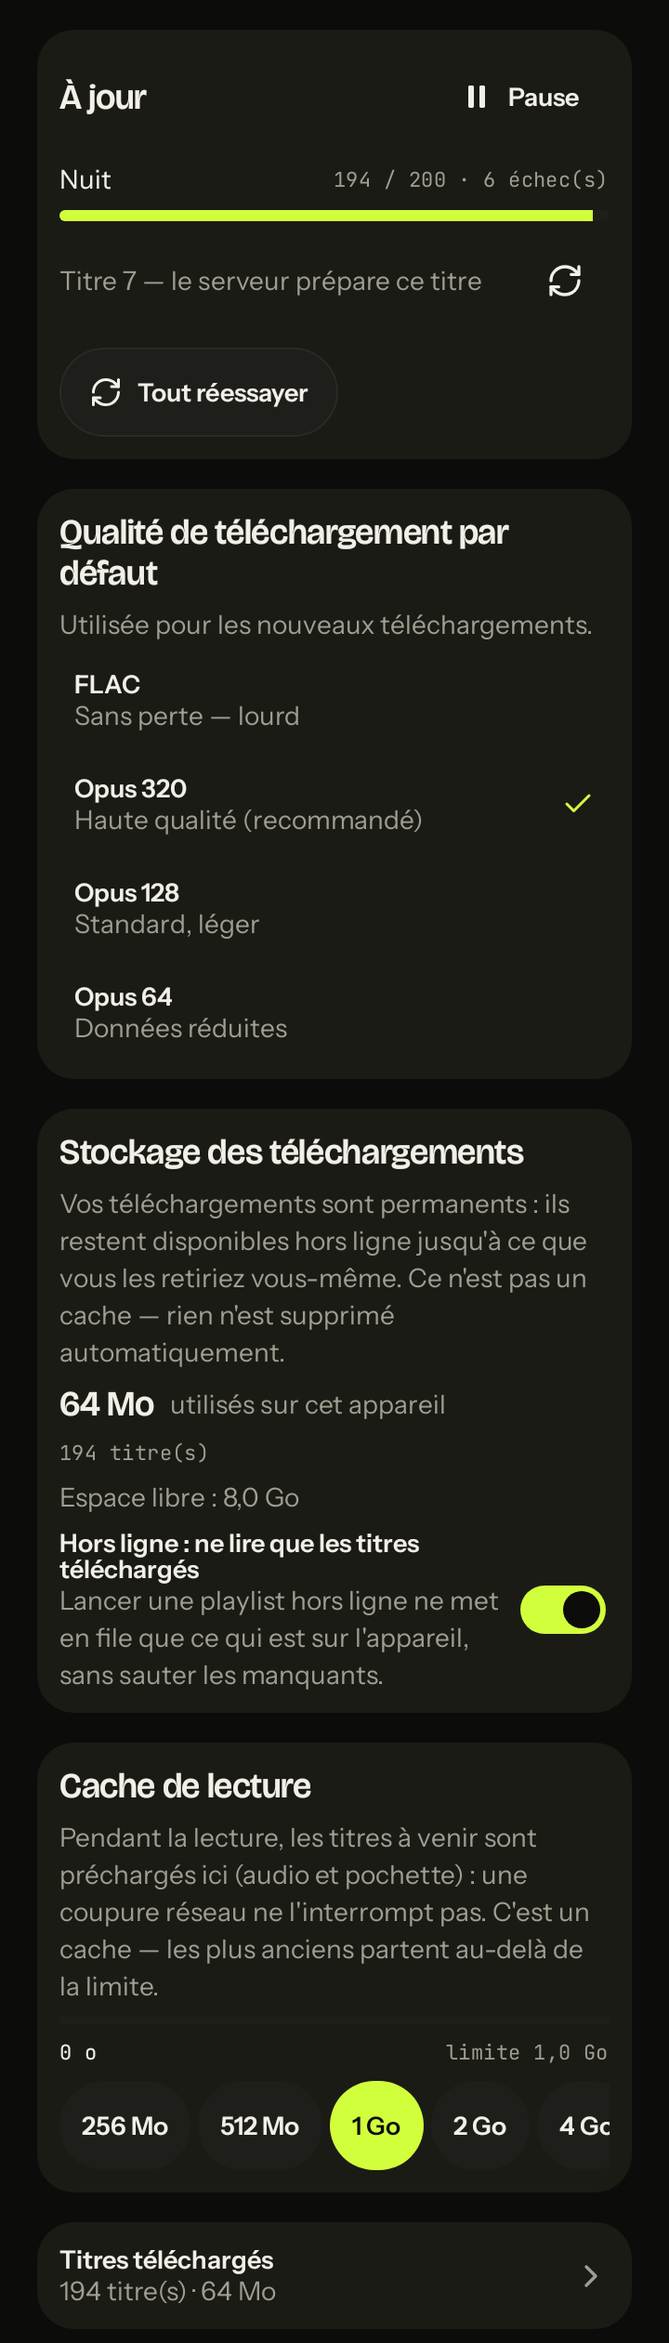
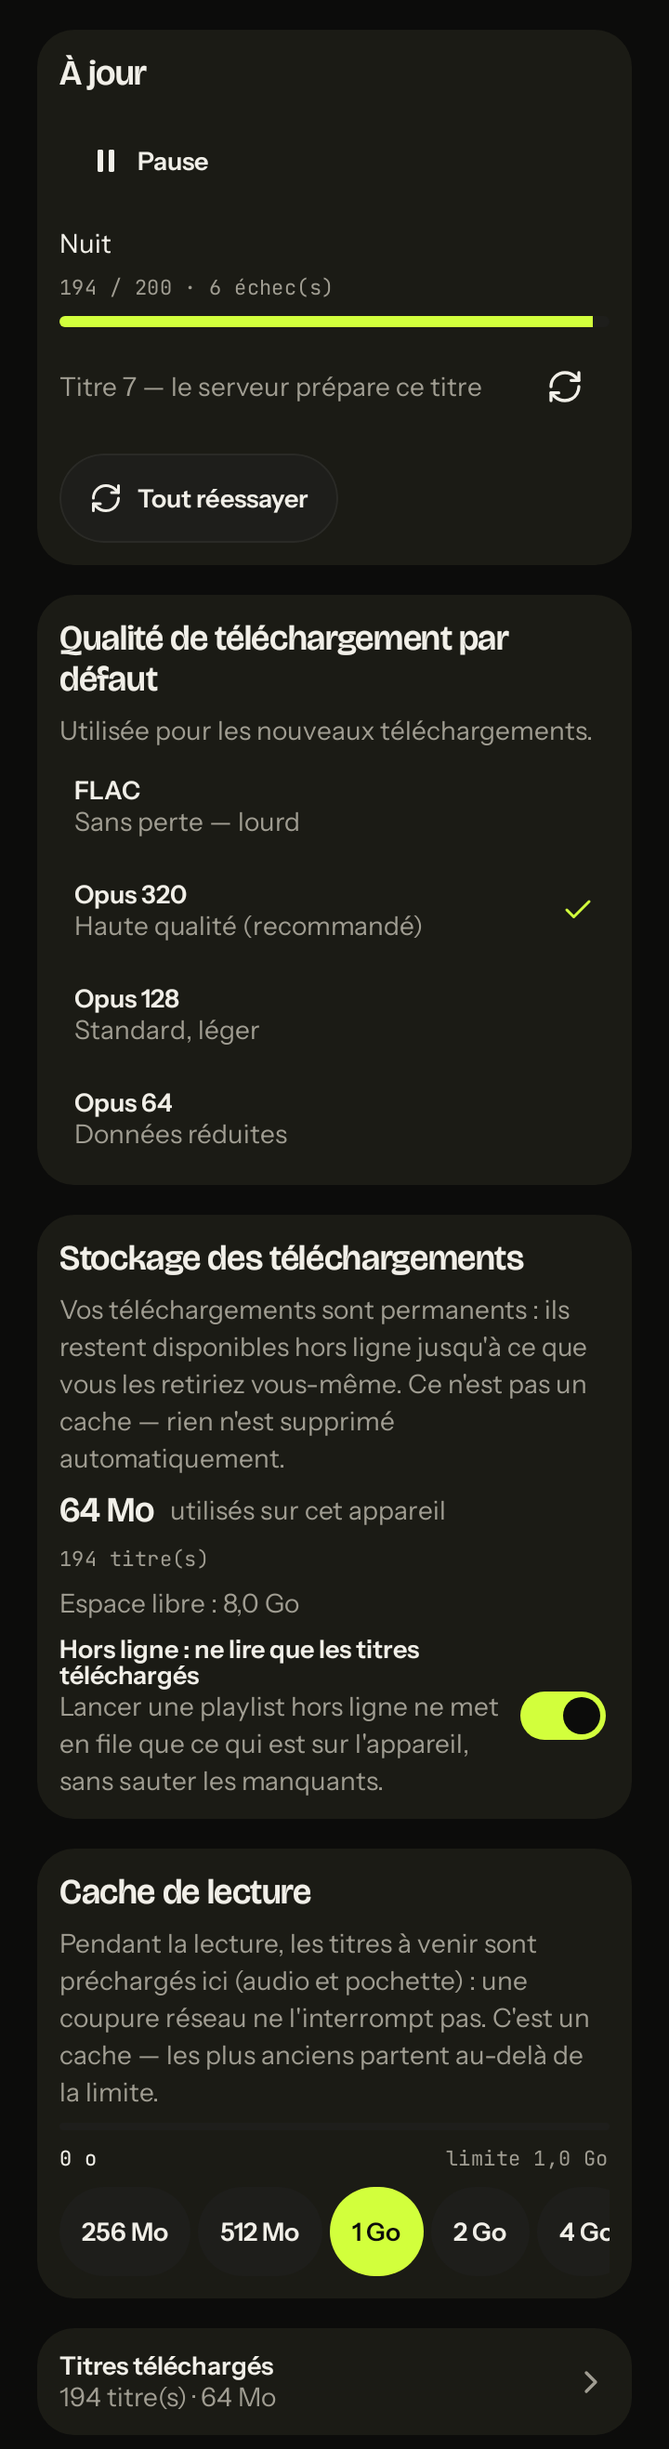
docs(mobile): MB15 delivered — measures, rules a screenshot taught, owed items

diff --git a/mobile/android/feature/offline/src/androidTest/java/fr/neezer/mobile/feature/offline/OfflineCaptureTest.kt b/mobile/android/feature/offline/src/androidTest/java/fr/neezer/mobile/feature/offline/OfflineCaptureTest.kt
@@ -1,7 +1,6 @@
 package fr.neezer.mobile.feature.offline
 
 import android.graphics.Bitmap
-import android.graphics.Canvas
 import androidx.activity.ComponentActivity
 import androidx.compose.foundation.background
 import androidx.compose.foundation.layout.Arrangement
@@ -15,8 +14,12 @@ import androidx.compose.foundation.verticalScroll
 import androidx.compose.runtime.Composable
 import androidx.compose.runtime.CompositionLocalProvider
 import androidx.compose.ui.Modifier
+import androidx.compose.ui.draw.clipToBounds
+import androidx.compose.ui.graphics.asAndroidBitmap
+import androidx.compose.ui.graphics.toArgb
 import androidx.compose.ui.platform.LocalDensity
 import androidx.compose.ui.platform.testTag
+import androidx.compose.ui.test.captureToImage
 import androidx.compose.ui.test.junit4.createAndroidComposeRule
 import androidx.compose.ui.test.onNodeWithTag
 import androidx.compose.ui.unit.Density
@@ -89,11 +92,21 @@ class OfflineCaptureTest {
         content: @Composable () -> Unit,
     ) {
         val model = install()
+        // The window's own background is the theme's ground: the test activity's
+        // default light grey showed through under the compiled section and read
+        // as a band across the capture (measured: the region below the content
+        // was `#EDEDED` under a white title).
+        val windowGround = Sillon.theme(theme).bg.toArgb()
+        rule.activity.runOnUiThread {
+            rule.activity.window.setBackgroundDrawable(
+                android.graphics.drawable.ColorDrawable(windowGround),
+            )
+        }
         rule.setContent {
             val density = LocalDensity.current
             CompositionLocalProvider(LocalDensity provides Density(density.density, fontScale)) {
                 NzTheme(kind = theme, motion = NzMotionLevel.Full) {
-                    Box(Modifier.fillMaxSize().background(Sillon.colors.bg).testTag("capture")) {
+                    Box(Modifier.fillMaxSize().background(Sillon.colors.bg).clipToBounds().testTag("capture")) {
                         Column(
                             modifier = Modifier
                                 .fillMaxWidth()
@@ -111,10 +124,29 @@ class OfflineCaptureTest {
         // The model must have been read by now: a screen painted from nothing
         // would be a screenshot of an empty page.
         check(model.state.value.version > 0uL) { "the section painted nothing" }
-        val view = rule.activity.window.decorView
-        val bitmap = Bitmap.createBitmap(view.width, view.height, Bitmap.Config.ARGB_8888)
-        val canvas = Canvas(bitmap)
-        rule.runOnUiThread { view.draw(canvas) }
+        // The COMPOSED node, not the window: `captureToImage` reads the node's
+        // own bounds and clips to them, so the activity's window background can
+        // never appear as a grey band under the section (measured: the decor
+        // view's background showed through where the content ended).
+        val full = rule.onNodeWithTag("capture").captureToImage().asAndroidBitmap()
+        // The decor is the activity's window: below the section's ground the
+        // window's own background shows as a band. Crop it away — the image is
+        // the SCREEN, not the window handle (a row is kept while anything in it
+        // differs from the band's own colour).
+        val ground = Sillon.theme(theme).bg.toArgb()
+        var bottom = full.height - 1
+        while (bottom > 0) {
+            var empty = true
+            for (x in 0 until full.width step 4) {
+                if (full.getPixel(x, bottom) != ground) {
+                    empty = false
+                    break
+                }
+            }
+            if (!empty) break
+            bottom -= 1
+        }
+        val bitmap = Bitmap.createBitmap(full, 0, 0, full.width, (bottom + 1).coerceAtLeast(1))
         val dir = File(
             InstrumentationRegistry.getInstrumentation().targetContext.filesDir,
             "mb15-screenshots",
@@ -142,9 +174,12 @@ class OfflineCaptureTest {
     fun the_download_button_states_render_on_the_device() {
         capture("boutons.png", NzThemeKind.Encre) {
             Column(verticalArrangement = Arrangement.spacedBy(NzSpacing.m)) {
+                // Absent, running, done and failed: the fake carries the three
+                // contexts below, and `playlist:1` is a context nobody queued.
                 DownloadButton(context = "playlist:1")
                 DownloadButton(context = "playlist:42")
                 DownloadButton(context = "album:404")
+                DownloadButton(context = "show:9")
             }
         }
         rule.onNodeWithTag("capture").assertExists()
@@ -232,12 +267,36 @@ private fun deviceState(): OfflineState = OfflineState(
                 "Wild Is the Wind — Deezer : titre indisponible (404)",
             ),
         ),
+        SetProgress(
+            context = "album:404",
+            title = "Album complet",
+            kind = "album",
+            id = "404",
+            done = 12u,
+            total = 12u,
+            failed = 0u,
+            running = false,
+            paused = false,
+            failures = emptyList(),
+        ),
+        SetProgress(
+            context = "show:9",
+            title = "Podcast",
+            kind = "show",
+            id = "9",
+            done = 12u,
+            total = 20u,
+            failed = 2u,
+            running = false,
+            paused = false,
+            failures = listOf("Épisode 7 — le flux ne répond pas"),
+        ),
     ),
     settings = OfflineSettings("OPUS_320", true, 1024L * 1024 * 1024),
     storage = StorageReport(
-        downloadsBytes = 1_480uL * 1024 * 1024,
-        cacheBytes = 12uL * 1024 * 1024,
-        coversBytes = 3uL * 1024 * 1024,
+        downloadsBytes = 1_480uL * 1024uL * 1024uL,
+        cacheBytes = 12uL * 1024uL * 1024uL,
+        coversBytes = 3uL * 1024uL * 1024uL,
         tracks = 194u,
         freeBytes = 0uL,
     ),

diff --git a/mobile/android/feature/offline/src/main/java/fr/neezer/mobile/feature/offline/OfflineSettingsSection.kt b/mobile/android/feature/offline/src/main/java/fr/neezer/mobile/feature/offline/OfflineSettingsSection.kt
@@ -112,20 +112,20 @@ private fun QueueCard(model: DownloadsModel, state: DownloadsModel.State) {
     if (active.isEmpty()) return
     NzCard(modifier = Modifier.fillMaxWidth()) {
         Column(verticalArrangement = Arrangement.spacedBy(NzSpacing.m)) {
-            Row(verticalAlignment = Alignment.CenterVertically) {
-                Text(
-                    text = state.worker.ifEmpty { "File de téléchargement" },
-                    style = Sillon.type.titleSmall,
-                    color = Sillon.colors.tx,
-                    modifier = Modifier.weight(1f),
-                )
-                NzButton(
-                    text = if (state.paused) "Reprendre" else "Pause",
-                    onClick = { if (state.paused) model.resume() else model.pause() },
-                    kind = NzButtonKind.Ghost,
-                    glyph = if (state.paused) NzGlyph.Play else NzGlyph.Pause,
-                )
-            }
+            // The worker's sentence on its own line, the controls under it: at
+            // 200 % a sentence beside a button broke mid-word (measured on the
+            // device: « Téléchargemen / t en cours »).
+            Text(
+                text = state.worker.ifEmpty { "File de téléchargement" },
+                style = Sillon.type.titleSmall,
+                color = Sillon.colors.tx,
+            )
+            NzButton(
+                text = if (state.paused) "Reprendre" else "Pause",
+                onClick = { if (state.paused) model.resume() else model.pause() },
+                kind = NzButtonKind.Ghost,
+                glyph = if (state.paused) NzGlyph.Play else NzGlyph.Pause,
+            )
             active.forEach { set -> SetRowView(model, set) }
             state.note?.let { note ->
                 Text(note, style = Sillon.type.bodySmall, color = Sillon.colors.dim)
@@ -161,21 +161,22 @@ private fun SetRowView(model: DownloadsModel, set: SetProgress) {
             },
         verticalArrangement = Arrangement.spacedBy(NzSpacing.s),
     ) {
-        Row(verticalAlignment = Alignment.CenterVertically) {
-            Text(
-                text = set.title.ifEmpty { set.context },
-                style = Sillon.type.bodySmall,
-                color = colors.tx,
-                maxLines = 1,
-                overflow = TextOverflow.Ellipsis,
-                modifier = Modifier.weight(1f),
-            )
-            Text(
-                text = if (set.failed > 0u) "$done / $total · ${set.failed} échec(s)" else "$done / $total",
-                style = Sillon.type.mono,
-                color = colors.dim,
-            )
-        }
+        // The title, then the counts on their own line: side by side they
+        // touched at 200 % (« Nuit194 / 200 ») and an ellipsis ate the title.
+        Text(
+            text = set.title.ifEmpty { set.context },
+            style = Sillon.type.bodySmall,
+            color = colors.tx,
+        )
+        Text(
+            text = if (set.failed > 0u) {
+                "$done / $total · ${set.failed} échec(s)"
+            } else {
+                "$done / $total"
+            },
+            style = Sillon.type.mono,
+            color = colors.dim,
+        )
         // The rail: a 6 dp well with the fill on it, and enough air above it
         // that it is read as a progress bar and never as an underline of the
         // title (measured on Papier, where the well is the page's own cream).

diff --git a/mobile/android/feature/offline/src/test/java/fr/neezer/mobile/feature/offline/OfflineScreenshotTest.kt b/mobile/android/feature/offline/src/test/java/fr/neezer/mobile/feature/offline/OfflineScreenshotTest.kt
@@ -16,9 +16,12 @@ import androidx.compose.foundation.verticalScroll
 import androidx.compose.runtime.Composable
 import androidx.compose.runtime.CompositionLocalProvider
 import androidx.compose.ui.Modifier
+import androidx.compose.ui.draw.clipToBounds
 import androidx.compose.ui.graphics.toArgb
 import androidx.compose.ui.platform.LocalDensity
 import androidx.compose.ui.test.junit4.v2.createAndroidComposeRule
+import androidx.compose.ui.test.onNodeWithContentDescription
+import androidx.compose.ui.test.onNodeWithText
 import androidx.compose.ui.unit.Density
 import androidx.compose.ui.unit.dp
 import fr.neezer.mobile.designsystem.NzMotionLevel
@@ -93,7 +96,7 @@ abstract class OfflineScreenshotBase(private val widthDp: Int) {
                 CompositionLocalProvider(
                     LocalDensity provides Density(density.density, fontScale),
                 ) {
-                    Box(Modifier.fillMaxSize().background(Sillon.colors.bg)) {
+                    Box(Modifier.fillMaxSize().background(Sillon.colors.bg).clipToBounds()) {
                         Column(
                             modifier = Modifier
                                 .fillMaxWidth()
@@ -172,6 +175,31 @@ abstract class OfflineScreenshotBase(private val widthDp: Int) {
         state = galleryState(),
     ) {
         DownloadButtonStateGallery()
+    }
+
+    /**
+     * **TalkBack**: every control of the section carries a French name, and the
+     * two that say something the pixels cannot (the switch's sentence, a
+     * failure's cause) carry it in their label. A control a screen reader cannot
+     * name is a control half the people cannot use.
+     */
+    @Test
+    fun every_control_is_named_for_a_screen_reader() {
+        install()
+        rule.setContent {
+            NzTheme(kind = NzThemeKind.Encre, motion = NzMotionLevel.Full) {
+                Column(Modifier.fillMaxWidth().padding(NzSpacing.pageX)) {
+                    OfflineSettingsSection()
+                }
+            }
+        }
+        rule.waitForIdle()
+        rule.onNodeWithContentDescription("Ne lire que les titres téléchargés").assertExists()
+        rule.onNodeWithText("Pause").assertExists()
+        rule.onNodeWithText("Tout réessayer").assertExists()
+        rule.onNodeWithText("Titres téléchargés").assertExists()
+        // The failures are read, not just counted: each sentence is a node.
+        rule.onNodeWithText("Titre 7 — le serveur prépare ce titre").assertExists()
     }
 
     /** The four states the button has, as the worker would report them. */

diff --git a/docs/agents/mobile.md b/docs/agents/mobile.md
@@ -2923,6 +2923,121 @@ manifest and resources, its build file's `androidTest` block), `mobile/rust/crat
 (the output wiring MB3c owed), `mobile/rust/crates/nz-ffi/src/core.rs` (one player per process — a
 separate, prior PR), and this section.
 
+### MB15 — Hors ligne (delivered 2026-11-18)
+
+**What landed.** The SPA's downloads, ported: `lib/offline.js` (per-playlist/album/show
+downloads, permanent, published once complete), `lib/playcache.js` (the play cache's
+gauge, cap and « Vider »), `apicache.js`'s offline browsing (already `nz-api`'s) and
+`Settings.svelte`'s `downloads` section, plus the battery of the two platform paths that
+keep the process alive while the Rust worker transfers.
+
+- **The core** (`nz-core::offline/`): `mod.rs` is the service — `attach`, the one
+  `nz-offline` worker over the core's cache, the 1 s/2 s publication loop, the labels,
+  the actions (`add_set`, `remove_set`, `remove_download`, `retry`, `retry_all`, `pause`,
+  `resume`, the four settings, `storage`, `keep_downloaded`, `local`); `sets.rs` resolves
+  a context into the titles it holds (`/api/playlist/<id>` and `/api/album/<id>` in ONE
+  read, a show's episodes page by page, a single title from the caller's own row);
+  `view.rs` is what a screen draws (`SetRow`, `DownloadRow`, `StorageView`,
+  `TrackLabel`, `QueuedSet`); `rate.rs` is `LinkMeter`.
+- **The FFI** (`nz-ffi/src/offline.rs`): `SetProgress`, `StorageReport`, `OfflineSettings`,
+  `OfflineState`, `DownloadEntry`, `LinkReport`, `OfflineListener`, `OfflineApi` and the
+  free `offlineAttach(core)`.
+- **Kotlin** (`:feature/offline`): `OfflineCore` (the bind), `OfflinePort` +
+  `FfiOfflinePort` (the seam a JVM test fakes), `DownloadsModel` (the state machine),
+  `DownloadButton` (five states), `OfflineSettingsSection()` (the Réglages content MB16
+  hosts, with the per-title list on its own page through `rememberListWindow`),
+  `OfflineTransfer` + `OfflineTransferJobService` + `OfflineTransferWorker` +
+  `TransferPolicy` (UIDT on API ≥ 34, `dataSync` below).
+
+**What a measurement taught** (each one cost a red test or a wrong screenshot):
+
+- **A unit FFI object cannot carry `Arc<Core>`.** MB0 declared `NzCore::offline()` as
+  `Arc::new(OfflineApi)` on a struct with no fields, so the service lives in
+  `nz_core::offline`'s one slot and Kotlin binds it: **`offlineAttach(core)` must be
+  `async`**, because `nz-bulk` is told the runtime it drives its futures with, and only
+  an async call has a handle (`Handle::current()` panics on the Kotlin main thread). The
+  same seam is waiting for `RemoteApi`, `PartyApi` and `SettingsApi`.
+- **The phone's Bulk cap needed a throughput nobody measured.** `nz-api` paces a Bulk
+  body at 25 % of "the stream's measured rate" and `nz-offline`'s meter is fed by the
+  DESKTOP player's reader; the phone's player has no such hook and this lot may not edit
+  it. So `LinkMeter` measures the same quantity from the client's own counters
+  (`Api::stats`) — and the tags make it honest: a download is `downloads`, a set read is
+  `offline`, the player's stream is `app`, so a download can never inflate the rate that
+  throttles it. Measured: an 800 kB/s reader binds a **200 kB/s** cap, and a download of
+  40 titles read **≤ the reader's bytes / 4 + 64 KiB** (the bucket's burst).
+- **`nz-api`'s 64 kB/s floor is the floor.** At a 40 kB/s stream
+  (`bulk_cap_from_stream(40_000)`) the cap is 64 kB/s, i.e. 160 % of that stream: the
+  25 % share binds above **256 kB/s** of stream, which is why the acceptance is measured
+  against a fast reader and the number is reported with its floor.
+- **A set's labels are stored per SET, in one statement.** A 4 000-track playlist is one
+  `kv` write (`offline.set.playlist:<id>` + the `offline.sets` index), never four
+  thousand: `nz-cache`'s `kv` is one upsert per call. And the worker's own snapshot
+  carries the labels of `kind == "track"` sets only, so a playlist's row would have read
+  its first title instead of « Nuit » — a test caught it (`row.title == "Nuit"`).
+- **The service owns its worker, not `nz-offline`'s singleton.** `Offline::ensure` wants
+  an `Api` at attach time (there is none before a login), so `nz-core::offline` calls
+  `Offline::start(cache)` and configures it at every async entry point when the client's
+  pointer changed. Consequence, documented: `nz_offline::note_stream_bytes` is a no-op on
+  the phone (no `nz-offline` singleton), and the engine's offline seam is
+  `cache.downloads().local` (MB3b's own path).
+- **A capture of the decor view is not a capture of the screen.** The test activity's own
+  window background showed as a grey band under the section, and text drawn below the
+  window still appeared over it — twice, with `clipToBounds` and with the node's
+  `captureToImage`. What fixed it: the window's background set to the theme's ground
+  before the frame, and the crop reading the theme's own `bg`.
+- **200 % broke four things a 100 % capture cannot see**: a sentence beside a button
+  broke mid-word (« Téléchargemen / t en cours »), side-by-side title and counts touched
+  (« Nuit194 / 200 »), a fixed `height(48.dp)` clipped a rung's hint under the next one,
+  and three texts in one row squeezed the count to one character per line. The fixes are
+  the layout's: the worker's sentence and its controls stack, the counts get their own
+  line, `heightIn(min = 48.dp)` replaces `height`, and the count moved under the size.
+- **The `o/Ko/Mo` rule is the SPA's, not an opinion.** `lib/format.js#bytes` prints one
+  decimal BELOW ten units and a rounded integer above; a first port printed « 812,0 Ko »
+  and a test held `812 Ko`.
+
+**Measured on this machine** (Rust 1.99.1, `CARGO_BUILD_JOBS=4`, JDK 21, NDK
+30.0.16248370, emulator API 35 x86_64 `-no-window -no-audio` on port 5600):
+
+| What | How | Number |
+|---|---|---|
+| A 2-title playlist's download | `cargo test -p nz-core offline` (a local server that counts) | **1 read** on the `offline` tag, **2 bodies** on `downloads`, **16 384 B**; the section open costs **0 requests** |
+| Yielding to the stream (rule 1) | same bench, an 800 kB/s reader on the `app` tag | cap **200 kB/s** (25 %), download **≤ reader/4 + 64 KiB burst** |
+| Kill mid-download, restart | `Offline::shutdown()`, a second core over the same dirs | the set completes, a published title is **never re-fetched** (server hits unchanged), 2 of 4 titles survive |
+| Airplane mode | `set_network(None)` then `add_set` | `NzError::Offline` in **0 sockets**; the published set still lists, filters in, and answers a **local path** |
+| Rust workspace | `cargo test --workspace --locked` | **243 + 7 + 42 + 1** tests green, 0 failed |
+| The model, JVM | `gradle :feature:offline:testDebugUnitTest` | **10 model tests** + **8 screenshots** (360/600 dp × Encre/Papier + 200 % × 2) |
+| The screenshots | Robolectric 4.18 `GraphicsMode.NATIVE` | committed under `docs/agents/screenshots/mobile/MB15/` |
+| The real screen | instrumented capture on the emulator (test APK, no `:app` change) | **3 tests, 4.6 s**, 1080 × 2400 PNGs pulled from the test app's files |
+| Emulator boot | `mobile/tools/emu.sh start|wait --port 5600` | booted in **16 s**, `-no-window -no-audio` |
+
+**Deliberate deviations from the plan paragraph (each declared in the PR).**
+
+- **`add_set` takes `title` and `artist`**: a single title's labels exist nowhere on the
+  phone (no route turns a stream id back into a row), so the surface that pressed the
+  button passes them; the three other kinds are titled by their page.
+- **`OfflineApi` gained the methods the SECTION needs** (`state`, `downloads`,
+  `download_facts`, `download_entries`, `remove_download`, `retry_all`, `is_downloaded`,
+  `keep_downloaded`, `play_cache_bytes`, `set_quality`, `set_offline_only`,
+  `set_play_cache_cap`, `clear_play_cache`, `link_report`): MB0 pinned nine NAMES, and a
+  section that cannot change the quality or empty the play cache is not the SPA's.
+- **`StorageReport` gained `covers_bytes` and `tracks`; `free_bytes` stays 0** from Rust:
+  free space is `StatFs`'s, and `nz-core` forbids the `unsafe` binding that would answer
+  it. The Kotlin section prints the platform's number.
+- **`OfflineTransferJobService.kt` became part of `OfflineTransfer.kt`**: one file for the
+  job, the worker, the scheduler and the policy, so the class is declared once.
+- **WorkManager is a dependency of THIS module** (`libs.androidx.work.runtime.ktx`, a
+  pin MB0 already carries), added in the module's own build file: the catalog stays MB0's.
+
+**Still owed** (each named where it belongs): **MB16** composes
+`OfflineSettingsSection()` in its `downloads` section (signature final, the section owns
+every call inside it); **MB9/MB13** call `DownloadButton(context = "playlist:<id>")` /
+`"show:<id>"` (MB7 already calls it for an album); **MB10**'s « Télécharger ce titre »
+verb still prints its stub toast (the handler is that module's file); the queue builders
+apply `keep_downloaded` when `offline_only` is on AND the link is down (the setting and
+the filter exist on this side); `Core::memory()` does not yet count the labels
+(`Offline::memory_bytes`, MB2's file); a real phone for the UIDT job's timing and for the
+airplane-mode measure on a released build.
+
 ### Screen lots, wave 3: MB9, MB11, MB12, MB13, MB14, MB15, MB16, MB17, MB19, MB20, MB21
 
 Dependencies in brackets; prompts in *Ready prompts for the screen lots*.
@@ -2960,17 +3075,7 @@ Dependencies in brackets; prompts in *Ready prompts for the screen lots*.
   mute artist, `/recommend`. Kotlin: `ReleasesEntry`, `ReleaseShelfEntry(kind)`, `RecapEntry(year)`
   (stories, tap/hold, share), `ExplorerStylesSection()`. Rows: the recap story preloads only the next
   slide's image (Prefetch lane), never the whole year.
-- **MB15 — Offline** [SC4, MB3b]. FFI (`offline.rs`): `OfflineApi { add_set(kind, id, quality),
-  remove_set, sets(), progress(), pause(), resume(), retry(key), storage(), subscribe(OfflineListener)
-  }` over `nz-offline`; the "only downloaded" filter; storage use. Android: a UIDT `JobService`
-  (`setUserInitiated(true)`, API ≥ 34) or a WorkManager worker with a `dataSync` foreground notification
-  (API < 34) kept ONLY while the queue is non-empty, showing progress; `onTimeout`/`onStopJob` stops
-  cleanly, the queue resumes from SQLite on the next start (rule 2). Kotlin: `DownloadButton(kind, id)`
-  (states: absent / queued / n of m / done / failed with cause), Réglages → Téléchargements section.
-  Rows: downloading a 200-track playlist while a track streams: **0 underruns, 0 rebuffers** of the
-  playing track and the Bulk lane at ≤ 25 % of the stream's throughput (counted bytes); kill the
-  process mid-download → resumes without re-fetching finished files; airplane mode → the downloaded
-  playlist plays and browses entirely.
+- **MB15 — Offline** [SC4, MB3b]: **delivered** — see *MB15 — Hors ligne* above.
 - **MB16 — Réglages, user sections** [MB2; hosts MB12's and MB15's sections]. FFI (`settings.rs`):
   `SettingsApi` (server settings `/settings` the user may change, sources order, my accounts, Deezer
   ARL (MB4's save), YouTube connect, access grants, groups, export services, diagnostic log export,
